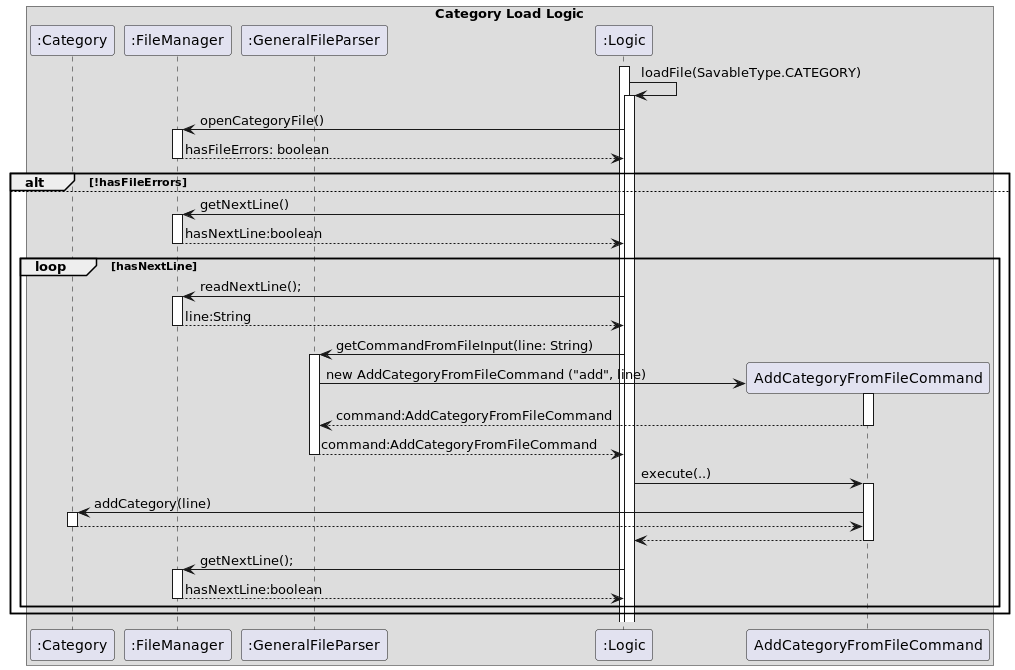
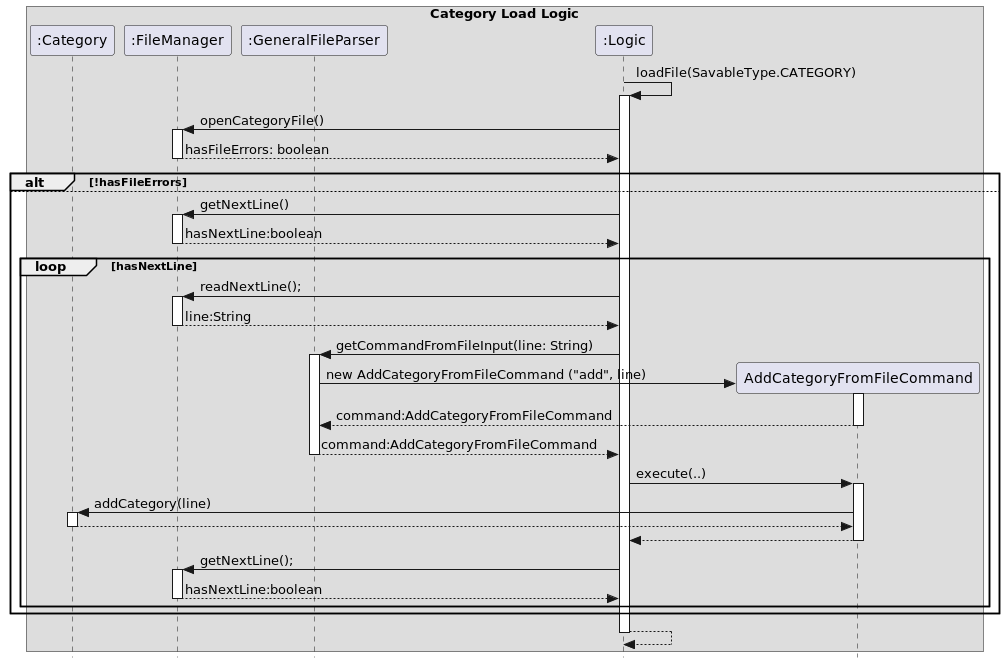
Modify DG Updated some <br> formatting and updated category laod sequence to the latest version

diff --git a/docs/DeveloperGuide.md b/docs/DeveloperGuide.md
@@ -98,10 +98,10 @@ The event feature aims to group expenses happening on specific occasions togethe
 The `Event` class stores the details of the event and the list of expenses that are associated with the event.
 The `EventManager` class is responsible for aggregate operations on the events.
 
-The UMl diagram below shows the main relationships between the classes in the event feature (some methods are omitted) </br>
+The UMl diagram below shows the main relationships between the classes in the event feature (some methods are omitted) <br>
 ![img.png](images/Event_class.png)
 
-The following sequence diagrams show how a user input is processed to add the events: </br>
+The following sequence diagrams show how a user input is processed to add the events: <br>
 
 ![img.png](images/addEventCommand.png) <br>
 ![img.png](images/executeAddEventCommand.png)
@@ -116,7 +116,7 @@ The following sequence diagrams show how a user input is processed to add the ev
 
 Details such as accessing the EventManager via the central dashboard and handling of exceptions using invalid commands are omitted for brevity.
 
-The following sequence diagram shows the execution of an `AddExpenseToEventCommand` command object </br>
+The following sequence diagram shows the execution of an `AddExpenseToEventCommand` command object <br>
 
 ![img.png](images/executeAddExpenseToEventCommand.png)
 
